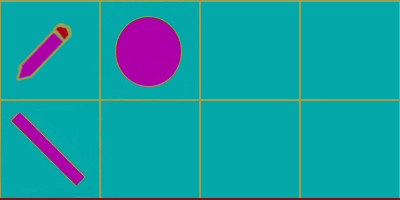
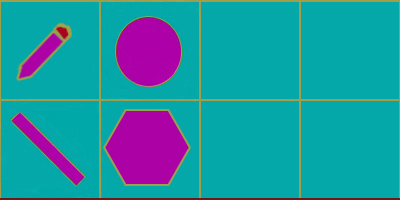
完成要求的画多边形部分

Changed region(s): [[0.24, 0.54, 0.48, 0.93]]

diff --git a/draw.cpp b/draw.cpp
@@ -110,3 +110,76 @@ void Draw_Circle(mouse_msg mouse)
 		}
 	}
 }
+
+void Draw_Homework_Polygon()
+{
+	PIMAGE NowOption = newimage();
+	getimage(NowOption, 0, 0, 1536, 200);
+	char buf[100] = {};
+	inputbox_getline("多边形边数选择", "请输入多边形边数", buf, 4);
+	int side = atoi(buf);
+	if (side < 3)
+	{
+		inputbox_getline("多边形边数选择", "输入有误！\n请输入正确的多边形边数！\n按回车返回操作界面", buf, 2);
+		return;
+	}
+	inputbox_getline("多边形坐标输入", "请以x1，y1，x2，y2......的形式输入多边形坐标\n坐标之间用空格隔开\n（提示，画图区域大小为1536X664(不包含边界）,请不要越界）", buf, 50);
+	char* Buf = buf;
+	int pt[100] = {};
+	RMake[Save].coor[0].x = RMake[Save].coor[0].y = side;
+	for (int n = 1;n <= side;++n)
+	{
+		if (Buf == NULL)
+		{
+			inputbox_getline("多边形坐标输入", "输入有误，请正确输入坐标\n按回车返回操作界面", buf, 3);
+			Draw_Modes ne;
+			RMake[Save] = ne;
+			return;
+		}
+		int x = atoi(Buf);
+		Buf = strstr(Buf, " ");
+		if (Buf == NULL)
+		{
+			inputbox_getline("多边形坐标输入", "输入有误，请正确输入坐标\n按回车返回操作界面", buf, 3);
+			Draw_Modes ne;
+			RMake[Save] = ne;
+			return;
+		}
+		Buf++;
+		int y = atoi(Buf) + 200;
+		RMake[Save].coor[n].x = x;
+		RMake[Save].coor[n].y = y;
+		Buf = strstr(Buf, " ");
+		pt[(2 * n) - 2] = x;
+		pt[(2 * n) - 1] = y;
+		if (x == 0 || y == 0 || (n != side && Buf == NULL))
+		{
+			inputbox_getline("多边形坐标输入", "输入有误，请正确输入坐标\n按回车返回操作界面", buf, 3);
+			Draw_Modes ne;
+			RMake[Save] = ne;
+			return;
+		}
+		if (x <= 0 || y <= 0 || x > 1536 || y > 864)
+		{
+			inputbox_getline("多边形坐标输入", "输入越界，请正确输入坐标\n按回车返回操作界面", buf, 3);
+			Draw_Modes ne;
+			RMake[Save] = ne;
+			return;
+		}
+		Buf++;
+	}
+	fillpoly(side, pt);
+	Save += 1;
+	if (Undo_Or_Not == true)
+	{
+		Draw_Modes New;
+		New.Mode = -1;
+		for (int a = Save;a <= MAX;++a)
+			RMake[a - 1] = New;
+		Undo_Or_Not = false;
+	}
+	RMake[Save - 1].Color = getcolor();
+	RMake[Save - 1].Mode = Homework_Polygon;
+	putimage(0, 0, NowOption);
+	delimage(NowOption);
+}

diff --git a/un_redo.cpp b/un_redo.cpp
@@ -37,11 +37,11 @@ void Draw_Redo_Init(int Num, ...)
 	RMake[Save - 1].Color = getcolor();
 	RMake[Save - 1].Mode = Modes;
 	RMake[Save - 1].Width = width;
-	for (int a = 0;a < Num;++a)
+	for (int a = 1;a <= Num;++a)
 	{
 		mouse_msg m = va_arg(New, mouse_msg);
-		RMake[Save-1].coor[a].x = m.x;
-		RMake[Save-1].coor[a].y = m.y;
+		RMake[Save - 1].coor[a].x = m.x;
+		RMake[Save - 1].coor[a].y = m.y;
 	}
 	va_end(New);
 	return;
@@ -65,10 +65,13 @@ void Redo(int Num)
 	switch (NowIM.Mode)
 	{
 	case CLEAR:
+	{
 		ClearDevice();
 		Save += 1;
 		break;
+	}
 	case PIXEL:
+	{
 		for (int n = 2;n < NowIM.pixel_[0].x;++n)
 		{
 			coordinate* coors = NowIM.pixel_;
@@ -76,15 +79,32 @@ void Redo(int Num)
 		}
 		Save += 1;
 		break;
+	}
 	case LINE:
-		ege_line(float(NowIM.coor[0].x), float(NowIM.coor[0].y), float(NowIM.coor[1].x), float(NowIM.coor[1].y));
+	{
+		ege_line(float(NowIM.coor[1].x), float(NowIM.coor[1].y), float(NowIM.coor[2].x), float(NowIM.coor[2].y));
 		Save += 1;
 		break;
+	}
 	case CIRCLE:
-		float r = float(sqrt(pow(double(NowIM.coor[1].x - NowIM.coor[0].x), 2) + pow(double(NowIM.coor[1].y - NowIM.coor[0].y), 2)));
-		ege_ellipse(NowIM.coor[0].x - r, NowIM.coor[0].y - r, 2 * r, 2 * r);
+	{
+		float r = float(sqrt(pow(double(NowIM.coor[2].x - NowIM.coor[1].x), 2) + pow(double(NowIM.coor[2].y - NowIM.coor[1].y), 2)));
+		ege_ellipse(NowIM.coor[1].x - r, NowIM.coor[1].y - r, 2 * r, 2 * r);
 		Save += 1;
 		break;
+	}
+	case Homework_Polygon:
+	{
+		int pt[100] = {};
+		for (int n = 0;n < NowIM.coor[0].x;++n)
+		{
+			pt[2 * n] = NowIM.coor[n + 1].x;
+			pt[2 * n + 1] = NowIM.coor[n + 1].y;
+		}
+		fillpoly(NowIM.coor[0].x, pt);
+		Save += 1;
+		break;
+	}
 	}
 	putimage(0, 0, NowOption);
 	delimage(NowOption);

diff --git a/main.cpp b/main.cpp
@@ -130,12 +130,17 @@ int main()
 					}
 					else
 					{
-						if (m.x < (BlockDrawStart + 2*BlockDraw))
+						if (m.x < (BlockDrawStart + BlockDraw))
 						{
 							Modes = LINE;
 							putimage(BlockDrawStart, 0, NewOption);
-							putimage(BlockDrawStart, 50, Draw_Line);
+							putimage(BlockDrawStart, 100, Draw_Line);
 							continue;
+						}
+						if (m.x < (BlockDrawStart + 2 * BlockDraw))
+						{
+							Modes = Homework_Polygon;
+							Draw_Homework_Polygon();
 						}
 					}
 				}
